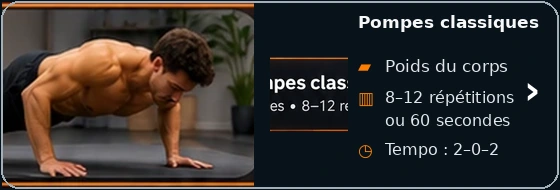
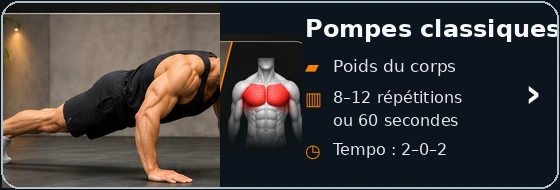
Add files via upload

diff --git a/sw.js b/sw.js
@@ -1,5 +1,5 @@
-const CACHE="ma-bibliotheque-v75";
-const ASSETS=["./","./index.html","./styles.css","./app.js","./data.json","./manifest.json","./icon-192.png","./icon-512.png","./cat-cakes-desserts.webp","./cat-cakes-sales-terrines.webp","./cat-pancakes-gaufres.webp","./cat-pains-pizzas-bruschettas.webp","./cat-quiches-tartes.webp","./cat-pates-a-tartiner.webp","./cat-plats-sales.webp","./cat-recettes-mer.webp","./cat-pates.webp","./cat-salades.webp","./cat-soupes.webp","./cat-mijoteuse.webp","./univers-musculation.webp","./muscu-menu-exercices.png","./muscu-menu-seances.png","./muscu-menu-autre-sport.png","./muscu-menu-historique.png","./exercice-groupe-pectoraux.webp","./exercice-groupe-dos.webp","./exercice-groupe-epaules.webp","./exercice-groupe-biceps.webp","./exercice-groupe-triceps.webp","./exercice-groupe-jambes.webp","./exercice-groupe-abdominaux.webp","./pectoraux-pompes-classiques.webp","./pectoraux-pompes-inclinees.webp","./pectoraux-pompes-declinees.webp","./pectoraux-developpe-sol-halteres.webp","./pectoraux-ecarte-sol-halteres.webp","./pectoraux-pullover-haltere.webp","./pectoraux-presse-unilaterale-sol.webp","./pectoraux-pompes-prise-large.webp","./pectoraux-pompes-tempo-lent.webp","./pectoraux-squeeze-press-halteres.webp","./pectoraux-pompes-classiques-detail.webp","./biceps-curl-marteau.webp","./biceps-curl-classique.webp","./biceps-curl-alterne.webp","./biceps-curl-concentration.webp","./biceps-curl-zottman.webp","./biceps-curl-prise-inversee.webp","./biceps-curl-assis.webp","./biceps-curl-unilateral.webp","./biceps-curl-isometrique.webp","./biceps-curl-kettlebell.webp","./seance-haut-corps-v2.png","./seance-bas-corps-v2.png","./seance-corps-complet-v2.png","./seance-abdos-gainage-v2.png","./sport-marche-v3.png","./sport-course-v3.png","./sport-velo-v3.png","./sport-velo-appartement-v3.png","./sport-paddle-v3.png","./recette-r014-gaufres-ig-bas-proteinees.png","./recette-r017-pancakes-proteines-ig-bas.png","./recette-r001-appareil-a-quiche-proteine-ig-bas.png","./recette-r013-gaufres-au-thon.png","./recette-r021-quiche-proteinee-legumes-sans-pate.png","./recette-r022-quiche-proteinee-legumes-thon-sans-pate.png","./recette-r023-quiche-proteinee-poulet-epinards-skyr-sans-pate.png","./recette-r029-pate-brisee-farine-pois-chiches.png","./recette-r031-pancakes-courgettes-parmesan.png","./recette-r019-choco-noisette-saine.png","./recette-r020-choco-noisette-ig-bas.png","./recette-r035-pate-amandes.png","./recette-r036-pate-cacahuetes.png","./recette-r058-veloute-pois-chiches-courgette-poireau-cumin.webp","./recette-r101-salade-poulet-avocat-oeufs.webp","./recette-r102-salade-pommes-terre-thon-oeufs.webp","./recette-r103-salade-cabillaud-avocat-oeufs.webp","./recette-r104-salade-poulet-croustillant.webp","./recette-r105-salade-mediterraneenne-pois-chiches.webp","./recette-r106-salade-pates-poulet-mozzarella.webp","./recette-r107-salade-crevettes-avocat-mangue.webp","./recette-r108-salade-quinoa-legumes-rotis-pois-chiches.webp","./recette-r109-salade-boeuf-grille-avocat.webp","./recette-r110-salade-riz-basmati-thon-oeufs.webp","./recette-r089-lasagnes-volaille-legumes.webp","./recette-r090-lasagnes-blanches-volaille-legumes.webp","./recette-r126-pates-poulet-courgettes-tomates.webp","./recette-r127-pates-pesto-tomates-parmesan.webp","./recette-r128-pates-cremeuses-poulet-champignons-epinards.webp","./recette-r129-pates-poulet-epinards-tomates.webp","./recette-r130-pates-thon-courgette-poivron-olives.webp","./recette-r131-pates-brocoli-burrata-tomates.webp","./recette-r132-pates-lentilles-corail-basilic.webp","./recette-r133-pates-lentilles-corail-tomates-confites-basilic.webp","./recette-r071-bowl-calamars-romaine.webp","./recette-r072-tacos-calamars-romaine.webp","./recette-r073-calamars-orge-legumes-rotis.webp","./recette-r074-risotto-mer-citron-safran-calamars.webp","./recette-r078-crevettes-courgettes-quinoa.webp","./recette-r079-crevettes-pois-chiches-legumes.webp","./recette-r002-cake-chocolat-poire-pepites.png","./recette-r005-cake-marbre-proteine-avoine-amande-lupin.png","./recette-r007-cake-proteine-myrtilles-chocolat.png","./recette-r011-flan-proteine-myrtille-citron.png","./recette-r030-gateau-fromage-blanc.png","./recette-r037-clafoutis-leger-pommes.png","./recette-r075-cake-proteine-ananas-coco-vanille.png","./recette-r076-tiramisu-proteine-cafe-chia.png","./recette-r077-tiramisu-proteine-poire-chocolat-chia.png","./recette-r091-cake-proteine-banane-chocolat.png","./recette-r092-cake-proteine-pomme-cannelle.png","./recette-r093-cake-proteine-banane-coco.png","./recette-r094-cake-proteine-chocolat-compote.png","./recette-r095-cake-proteine-poire-amande.png","./recette-r096-cake-proteine-carotte-cannelle-noix.png","./recette-r097-cake-proteine-banane-fruits-rouges.png","./recette-r098-cake-proteine-pomme-coco.png","./recette-r099-cake-proteine-citron-amande.png","./recette-r100-cake-proteine-banane-cacao-noisette.png","./recette-r003-cake-courgette-poivron-feta.png","./recette-r004-cake-jambon-epinards-chevre.png","./recette-r006-cake-poulet-courgette-parmesan.png","./recette-r008-cake-legumes-du-soleil.png","./recette-r009-cake-thon-courgette-skyr-sans-farine.png","./recette-r010-cake-thon-tomate-olives.png","./recette-r024-terrine-legumes-ete.png","./recette-r025-terrine-fraiche-thon-courgette.png","./recette-r038-cake-epinards-feta.png","./recette-r039-cake-poulet-curry.png","./recette-r040-cake-poivron-mozzarella.png","./recette-r041-cake-champignons-comte.png","./recette-r042-cake-carotte-chevre.png","./recette-r043-cake-thon-olives.png","./recette-r080-flan-courgettes-parmesan-skyr.png","./recette-r081-terrine-poulet-legumes.png","./recette-r082-clafoutis-tomates-courgettes-fromage.png","./recette-r083-terrine-champignons-poireaux-emmental.png","./recette-r084-gateau-pommes-terre-courgettes-chevre.png","./recette-r085-gateau-pommes-terre-chou-fleur-chevre.png","./recette-r026-wok-poulet-pousses-soja.png","./recette-r059-poulet-pommes-terre-brocoli.png","./recette-r060-saumon-riz-legumes.png","./recette-r061-poulet-cremeux-champignons-pates.png","./recette-r062-boeuf-pommes-terre-carottes-mijotes.png","./recette-r063-saucisses-pommes-terre-poivrons.png","./recette-r064-poulet-riz-legumes.png","./recette-r065-crevettes-riz-brocoli.png","./recette-r066-poulet-tex-mex-haricots-mais.png","./recette-r067-gnocchis-poulet-tomates.png","./recette-r068-boulettes-boeuf-orzo-tomates.png","./recette-r069-poulet-citron-orzo-epinards.png","./recette-r070-boeuf-cremeux-champignons-pates.png","./recette-r112-boeuf-bourguignon-mijoteuse-v2.png","./recette-r113-poulet-cremeux-ail-v2.png","./recette-r114-porc-effiloche-sauce-barbecue-v2.png","./recette-r115-ragout-boeuf-legumes-pommes-terre-v2.png","./recette-r116-boulettes-boeuf-sauce-tomate-v2.png","./recette-r117-poulet-champignons-creme-v2.png","./recette-r118-boeuf-oignons-sauce-brune-v2.png","./recette-r119-poulet-citron-herbes-v2.png","./recette-r120-porc-champignons-oignons-v2.png","./recette-r121-chili-boeuf-haricots-blancs-v2.png","./recette-r122-poulet-cremeux-pommes-terre-v3.png","./recette-r123-boeuf-mijote-thym-v2.png","./recette-r124-poulet-barbecue-miel-v3.png","./recette-r125-roti-porc-pommes-terre-v3.png","./recette-r012-fougasse-petit-epeautre-v2.png","./recette-r015-pain-complet-ig-bas-v2.png","./recette-r016-pain-pomme-terre-skyr-v2.png","./recette-r018-pate-pizza-ig-bas-v2.png","./recette-r027-pain-sarrasin-pois-chiches-graines-v2.png","./recette-r028-pain-sarrasin-v2.png","./recette-r032-pizza-express-proteinee-v2.png","./recette-r033-petits-pains-pois-chiches-v2.png","./recette-r034-pain-lentilles-corail-v2.png","./recette-r044-bruschetta-tomate-basilic-v2.png","./recette-r045-bruschetta-mozzarella-tomates-cerises.png","./recette-r046-bruschetta-jambon-cru-roquette.png","./recette-r047-bruschetta-ricotta-miel.png","./recette-r048-bruschetta-champignons-ail.png","./recette-r049-bruschetta-poivron-roti.png","./recette-r050-bruschetta-saumon-fromage-frais.png","./recette-r051-bruschetta-avocat-citron-vert.png","./recette-r052-bruschetta-thon-olives.png","./recette-r053-bruschetta-chevre-figues.png","./recette-r054-bruschetta-pesto-tomates-sechees.png","./recette-r055-bruschetta-burrata-pesto.png","./recette-r056-bruschetta-poulet-tomates-sechees.png","./recette-r057-bruschetta-crevettes-avocat.png","./recette-r086-pain-lentilles-corail.png","./recette-r087-pain-lentilles-avoine-lupin.png","./recette-r088-pain-nordique-graines.png","./recette-r111-pain-100-sarrasin.png"];
+const CACHE="ma-bibliotheque-v74";
+const ASSETS=["./","./index.html","./styles.css","./app.js","./data.json","./manifest.json","./icon-192.png","./icon-512.png","./cat-cakes-desserts.webp","./cat-cakes-sales-terrines.webp","./cat-pancakes-gaufres.webp","./cat-pains-pizzas-bruschettas.webp","./cat-quiches-tartes.webp","./cat-pates-a-tartiner.webp","./cat-plats-sales.webp","./cat-recettes-mer.webp","./cat-pates.webp","./cat-salades.webp","./cat-soupes.webp","./cat-mijoteuse.webp","./univers-musculation.webp","./muscu-menu-exercices.png","./muscu-menu-seances.png","./muscu-menu-autre-sport.png","./muscu-menu-historique.png","./exercice-groupe-pectoraux.webp","./exercice-groupe-dos.webp","./exercice-groupe-epaules.webp","./exercice-groupe-biceps.webp","./exercice-groupe-triceps.webp","./exercice-groupe-jambes.webp","./exercice-groupe-abdominaux.webp","./biceps-curl-marteau.webp","./pectoraux-pompes-classiques.webp","./biceps-curl-classique.webp","./biceps-curl-alterne.webp","./biceps-curl-concentration.webp","./biceps-curl-zottman.webp","./biceps-curl-prise-inversee.webp","./biceps-curl-assis.webp","./biceps-curl-unilateral.webp","./biceps-curl-isometrique.webp","./biceps-curl-kettlebell.webp","./seance-haut-corps-v2.png","./seance-bas-corps-v2.png","./seance-corps-complet-v2.png","./seance-abdos-gainage-v2.png","./sport-marche-v3.png","./sport-course-v3.png","./sport-velo-v3.png","./sport-velo-appartement-v3.png","./sport-paddle-v3.png","./recette-r014-gaufres-ig-bas-proteinees.png","./recette-r017-pancakes-proteines-ig-bas.png","./recette-r001-appareil-a-quiche-proteine-ig-bas.png","./recette-r013-gaufres-au-thon.png","./recette-r021-quiche-proteinee-legumes-sans-pate.png","./recette-r022-quiche-proteinee-legumes-thon-sans-pate.png","./recette-r023-quiche-proteinee-poulet-epinards-skyr-sans-pate.png","./recette-r029-pate-brisee-farine-pois-chiches.png","./recette-r031-pancakes-courgettes-parmesan.png","./recette-r019-choco-noisette-saine.png","./recette-r020-choco-noisette-ig-bas.png","./recette-r035-pate-amandes.png","./recette-r036-pate-cacahuetes.png","./recette-r058-veloute-pois-chiches-courgette-poireau-cumin.webp","./recette-r101-salade-poulet-avocat-oeufs.webp","./recette-r102-salade-pommes-terre-thon-oeufs.webp","./recette-r103-salade-cabillaud-avocat-oeufs.webp","./recette-r104-salade-poulet-croustillant.webp","./recette-r105-salade-mediterraneenne-pois-chiches.webp","./recette-r106-salade-pates-poulet-mozzarella.webp","./recette-r107-salade-crevettes-avocat-mangue.webp","./recette-r108-salade-quinoa-legumes-rotis-pois-chiches.webp","./recette-r109-salade-boeuf-grille-avocat.webp","./recette-r110-salade-riz-basmati-thon-oeufs.webp","./recette-r089-lasagnes-volaille-legumes.webp","./recette-r090-lasagnes-blanches-volaille-legumes.webp","./recette-r126-pates-poulet-courgettes-tomates.webp","./recette-r127-pates-pesto-tomates-parmesan.webp","./recette-r128-pates-cremeuses-poulet-champignons-epinards.webp","./recette-r129-pates-poulet-epinards-tomates.webp","./recette-r130-pates-thon-courgette-poivron-olives.webp","./recette-r131-pates-brocoli-burrata-tomates.webp","./recette-r132-pates-lentilles-corail-basilic.webp","./recette-r133-pates-lentilles-corail-tomates-confites-basilic.webp","./recette-r071-bowl-calamars-romaine.webp","./recette-r072-tacos-calamars-romaine.webp","./recette-r073-calamars-orge-legumes-rotis.webp","./recette-r074-risotto-mer-citron-safran-calamars.webp","./recette-r078-crevettes-courgettes-quinoa.webp","./recette-r079-crevettes-pois-chiches-legumes.webp","./recette-r002-cake-chocolat-poire-pepites.png","./recette-r005-cake-marbre-proteine-avoine-amande-lupin.png","./recette-r007-cake-proteine-myrtilles-chocolat.png","./recette-r011-flan-proteine-myrtille-citron.png","./recette-r030-gateau-fromage-blanc.png","./recette-r037-clafoutis-leger-pommes.png","./recette-r075-cake-proteine-ananas-coco-vanille.png","./recette-r076-tiramisu-proteine-cafe-chia.png","./recette-r077-tiramisu-proteine-poire-chocolat-chia.png","./recette-r091-cake-proteine-banane-chocolat.png","./recette-r092-cake-proteine-pomme-cannelle.png","./recette-r093-cake-proteine-banane-coco.png","./recette-r094-cake-proteine-chocolat-compote.png","./recette-r095-cake-proteine-poire-amande.png","./recette-r096-cake-proteine-carotte-cannelle-noix.png","./recette-r097-cake-proteine-banane-fruits-rouges.png","./recette-r098-cake-proteine-pomme-coco.png","./recette-r099-cake-proteine-citron-amande.png","./recette-r100-cake-proteine-banane-cacao-noisette.png","./recette-r003-cake-courgette-poivron-feta.png","./recette-r004-cake-jambon-epinards-chevre.png","./recette-r006-cake-poulet-courgette-parmesan.png","./recette-r008-cake-legumes-du-soleil.png","./recette-r009-cake-thon-courgette-skyr-sans-farine.png","./recette-r010-cake-thon-tomate-olives.png","./recette-r024-terrine-legumes-ete.png","./recette-r025-terrine-fraiche-thon-courgette.png","./recette-r038-cake-epinards-feta.png","./recette-r039-cake-poulet-curry.png","./recette-r040-cake-poivron-mozzarella.png","./recette-r041-cake-champignons-comte.png","./recette-r042-cake-carotte-chevre.png","./recette-r043-cake-thon-olives.png","./recette-r080-flan-courgettes-parmesan-skyr.png","./recette-r081-terrine-poulet-legumes.png","./recette-r082-clafoutis-tomates-courgettes-fromage.png","./recette-r083-terrine-champignons-poireaux-emmental.png","./recette-r084-gateau-pommes-terre-courgettes-chevre.png","./recette-r085-gateau-pommes-terre-chou-fleur-chevre.png","./recette-r026-wok-poulet-pousses-soja.png","./recette-r059-poulet-pommes-terre-brocoli.png","./recette-r060-saumon-riz-legumes.png","./recette-r061-poulet-cremeux-champignons-pates.png","./recette-r062-boeuf-pommes-terre-carottes-mijotes.png","./recette-r063-saucisses-pommes-terre-poivrons.png","./recette-r064-poulet-riz-legumes.png","./recette-r065-crevettes-riz-brocoli.png","./recette-r066-poulet-tex-mex-haricots-mais.png","./recette-r067-gnocchis-poulet-tomates.png","./recette-r068-boulettes-boeuf-orzo-tomates.png","./recette-r069-poulet-citron-orzo-epinards.png","./recette-r070-boeuf-cremeux-champignons-pates.png","./recette-r112-boeuf-bourguignon-mijoteuse-v2.png","./recette-r113-poulet-cremeux-ail-v2.png","./recette-r114-porc-effiloche-sauce-barbecue-v2.png","./recette-r115-ragout-boeuf-legumes-pommes-terre-v2.png","./recette-r116-boulettes-boeuf-sauce-tomate-v2.png","./recette-r117-poulet-champignons-creme-v2.png","./recette-r118-boeuf-oignons-sauce-brune-v2.png","./recette-r119-poulet-citron-herbes-v2.png","./recette-r120-porc-champignons-oignons-v2.png","./recette-r121-chili-boeuf-haricots-blancs-v2.png","./recette-r122-poulet-cremeux-pommes-terre-v3.png","./recette-r123-boeuf-mijote-thym-v2.png","./recette-r124-poulet-barbecue-miel-v3.png","./recette-r125-roti-porc-pommes-terre-v3.png","./recette-r012-fougasse-petit-epeautre-v2.png","./recette-r015-pain-complet-ig-bas-v2.png","./recette-r016-pain-pomme-terre-skyr-v2.png","./recette-r018-pate-pizza-ig-bas-v2.png","./recette-r027-pain-sarrasin-pois-chiches-graines-v2.png","./recette-r028-pain-sarrasin-v2.png","./recette-r032-pizza-express-proteinee-v2.png","./recette-r033-petits-pains-pois-chiches-v2.png","./recette-r034-pain-lentilles-corail-v2.png","./recette-r044-bruschetta-tomate-basilic-v2.png","./recette-r045-bruschetta-mozzarella-tomates-cerises.png","./recette-r046-bruschetta-jambon-cru-roquette.png","./recette-r047-bruschetta-ricotta-miel.png","./recette-r048-bruschetta-champignons-ail.png","./recette-r049-bruschetta-poivron-roti.png","./recette-r050-bruschetta-saumon-fromage-frais.png","./recette-r051-bruschetta-avocat-citron-vert.png","./recette-r052-bruschetta-thon-olives.png","./recette-r053-bruschetta-chevre-figues.png","./recette-r054-bruschetta-pesto-tomates-sechees.png","./recette-r055-bruschetta-burrata-pesto.png","./recette-r056-bruschetta-poulet-tomates-sechees.png","./recette-r057-bruschetta-crevettes-avocat.png","./recette-r086-pain-lentilles-corail.png","./recette-r087-pain-lentilles-avoine-lupin.png","./recette-r088-pain-nordique-graines.png","./recette-r111-pain-100-sarrasin.png"];
 
 self.addEventListener("install", event => {
   self.skipWaiting();

diff --git a/app.js b/app.js
@@ -337,27 +337,29 @@ function renderMuscuExercises(){
 }
 
 function renderMuscuPectoraux(){
-  const exercises=[
-    ["pompes-classiques","Pompes classiques"],["pompes-inclinees","Pompes inclinées"],["pompes-declinees","Pompes déclinées"],
-    ["developpe-sol-halteres","Développé couché au sol haltères"],["ecarte-sol-halteres","Écarté couché au sol haltères"],
-    ["pullover-haltere","Pullover haltère"],["presse-unilaterale-sol","Presse poitrine unilatérale au sol"],
-    ["pompes-prise-large","Pompes prise large"],["pompes-tempo-lent","Pompes tempo lent"],["squeeze-press-halteres","Squeeze press haltères"]
-  ];
-  main.innerHTML=`<section class="muscu-biceps-v1" aria-label="Exercices pectoraux">
-    <button class="muscu-back-pill muscu-biceps-back" id="muscuPectorauxBack"><span class="muscu-back-arrow">←</span><span>Retour</span></button>
-    <div class="muscu-biceps-heading"><div class="muscu-biceps-icon" aria-hidden="true">⌁</div><div><div class="muscu-biceps-kicker">EXERCICES</div><h2>Pectoraux</h2><p>10 exercices pour développer et renforcer les pectoraux à la maison</p></div></div>
-    <div class="muscu-biceps-list">${exercises.map(([key,label])=>`<button class="muscu-biceps-card" data-pectoraux-exercise="${key}" aria-label="Ouvrir ${label}"><img src="./pectoraux-${key}.webp" alt="${label}"></button>`).join("")}</div>
-  </section>`;
+  main.innerHTML=`
+    <section class="muscu-biceps-v1" aria-label="Exercices pectoraux">
+      <button class="muscu-back-pill muscu-biceps-back" id="muscuPectorauxBack" aria-label="Retour aux groupes musculaires">
+        <span class="muscu-back-arrow">←</span><span>Retour</span>
+      </button>
+      <div class="muscu-biceps-heading">
+        <div class="muscu-biceps-icon" aria-hidden="true">⌁</div>
+        <div>
+          <div class="muscu-biceps-kicker">EXERCICES</div>
+          <h2>Pectoraux</h2>
+          <p>Test de la première carte au gabarit Biceps</p>
+        </div>
+      </div>
+      <div class="muscu-biceps-list">
+        <button class="muscu-biceps-card" id="pectorauxPompesClassiques" aria-label="Ouvrir Pompes classiques">
+          <img src="./pectoraux-pompes-classiques.webp" alt="Pompes classiques">
+        </button>
+      </div>
+    </section>`;
   document.getElementById("muscuPectorauxBack")?.addEventListener("click",()=>{state.view="muscu-exercises";render();});
-  document.querySelectorAll("[data-pectoraux-exercise]").forEach(btn=>btn.addEventListener("click",()=>{
-    if(btn.dataset.pectorauxExercise==="pompes-classiques"){state.view="muscu-pectoraux-pompes-classiques";render();return;}
-    const label=btn.getAttribute("aria-label")?.replace("Ouvrir ","")||"cet exercice"; alert(`La fiche détaillée ${label} sera ajoutée ensuite.`);
-  }));
-}
-
-function renderPectorauxPompesClassiques(){
-  main.innerHTML=`<section class="muscu-detail-img-page"><div class="muscu-detail-img-wrap"><img src="./pectoraux-pompes-classiques-detail.webp" alt="Fiche Pompes classiques"><button class="muscu-detail-back-hit" id="pompesBack" aria-label="Retour aux pectoraux"></button></div></section>`;
-  document.getElementById("pompesBack")?.addEventListener("click",()=>{state.view="muscu-pectoraux";render();});
+  document.getElementById("pectorauxPompesClassiques")?.addEventListener("click",()=>{
+    alert("Carte Pompes classiques validée : la fiche détaillée sera branchée après validation du rendu.");
+  });
 }
 
 function renderMuscuBiceps(){
@@ -486,7 +488,7 @@ function renderMuscuHistory(){
 
 function updateShell(){
   const onHub=state.view==="hub";
-  const onMuscu=state.view==="muscu-entry" || state.view==="muscu-menu" || state.view==="muscu-exercises" || state.view==="muscu-sessions" || state.view==="muscu-other" || state.view==="muscu-history" || state.view==="muscu-biceps" || state.view==="muscu-pectoraux" || state.view==="muscu-pectoraux-pompes-classiques";
+  const onMuscu=state.view==="muscu-entry" || state.view==="muscu-menu" || state.view==="muscu-exercises" || state.view==="muscu-sessions" || state.view==="muscu-other" || state.view==="muscu-history" || state.view==="muscu-biceps" || state.view==="muscu-pectoraux";
   bottomNav.classList.toggle("hidden",onHub || onMuscu);
   if(onHub){
     brandMark.textContent="MB";
@@ -641,7 +643,6 @@ function render(){
   if(state.view==="muscu-menu") return renderMuscuMenu();
   if(state.view==="muscu-exercises") return renderMuscuExercises();
   if(state.view==="muscu-pectoraux") return renderMuscuPectoraux();
-  if(state.view==="muscu-pectoraux-pompes-classiques") return renderPectorauxPompesClassiques();
   if(state.view==="muscu-biceps") return renderMuscuBiceps();
   if(state.view==="muscu-sessions") return renderMuscuSessions();
   if(state.view==="muscu-other") return renderMuscuOther();

diff --git a/styles.css b/styles.css
@@ -568,9 +568,3 @@ dialog::backdrop{background:rgba(31,42,35,.42);backdrop-filter:blur(2px)}
   .muscu-biceps-card{width:100%!important;max-width:100%!important;min-width:0!important;border-radius:15px}
   .muscu-biceps-card img{width:100%!important;max-width:100%!important;height:auto!important}
 }
-
-.muscu-detail-img-page{width:100%;max-width:940px;margin:0 auto;padding:0;background:#0b131b;border-radius:24px;overflow:hidden}
-.muscu-detail-img-wrap{position:relative;width:100%}
-.muscu-detail-img-wrap img{display:block;width:100%;height:auto;max-width:100%}
-.muscu-detail-back-hit{position:absolute;left:3.5%;top:4.2%;width:16%;height:7%;border:0;background:transparent;border-radius:18px}
-@media(max-width:680px){.muscu-detail-img-page{max-width:100%;border-radius:20px}.muscu-detail-back-hit{left:3.5%;top:4.2%;width:20%;height:7%}}
